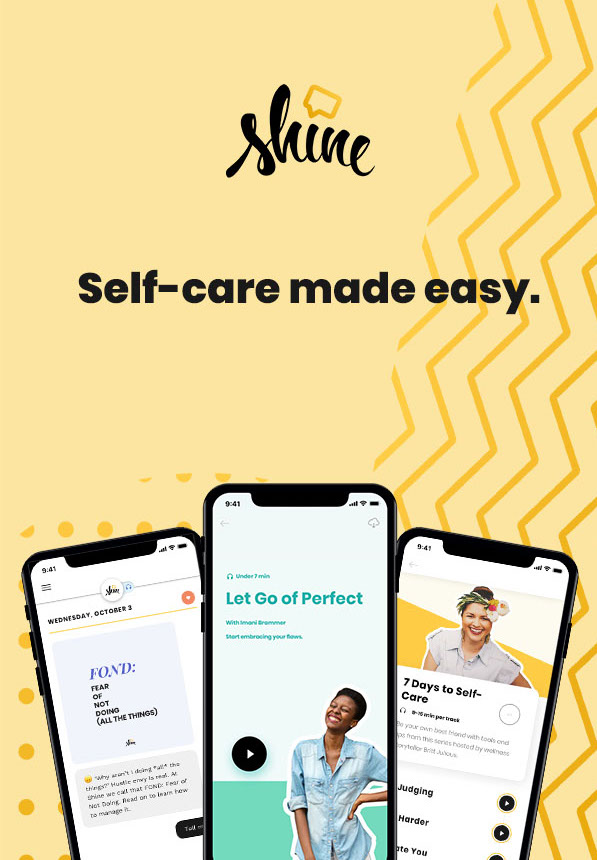
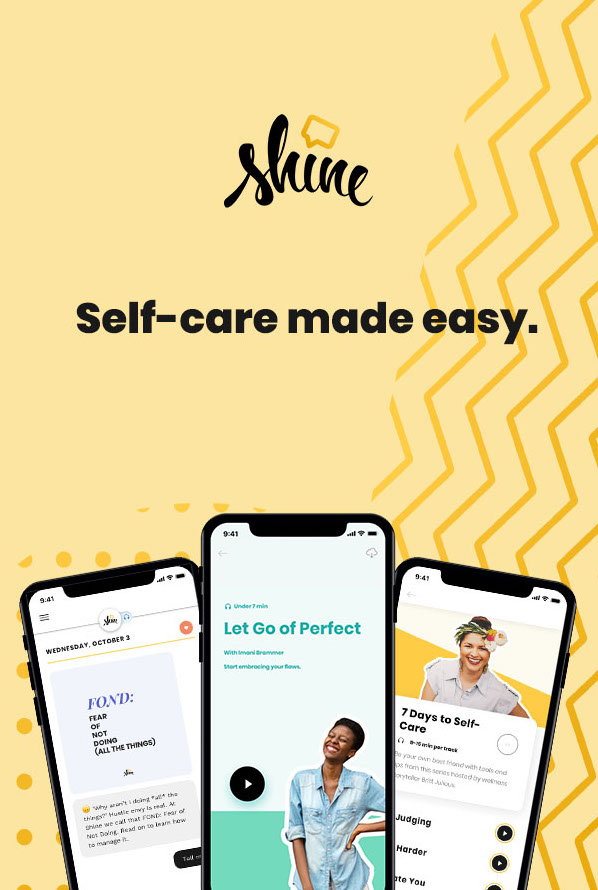
update copy on fb ad page & bg img

diff --git a/api/services/partnersData.js b/api/services/partnersData.js
@@ -244,20 +244,20 @@ const partnersData = {
     signUpButtonText: 'Get Started',
     campaignKey: 'OP836EE83472E6391BE0A81A0DEAF35F24',
   },
-  'get-app': {
+  'fb-text-to-download': {
     name: 'Meet your new self-care sidekick.',
     imageUrl: '/images/partners/shine-app.jpg',
     copy:
-      "<p style='font-size: 18px'>1) Wake up daily to Shine Texts: bite-sized, research-backed advice.</p> <p style='font-size: 18px'>2) Listen to Shine Talks on topics like self-love, anxiety, and burnout.</p> <p style='font-size: 18px'>3) Remind yourself what you're grateful for every day.</p> <hr> <p style='font-weight: 800;'>93% of people felt happier and more confident after making Shine part of their daily routine.</p> <p style='font-size: 18px'>Enter your info below to get a text to download our app:</p>",
+      "<div style='font-size: 18px'><p>1) Wake up daily to Shine Texts: bite-sized, research-backed advice.</p> <p>2) Listen to Shine Talks on topics like self-love, anxiety, and burnout.</p> <p>3) Remind yourself what you're grateful for every day.</p> <hr> <p style='font-weight: 800;'>93% of people felt happier and more confident after making Shine part of their daily routine.</p> <p>Enter your info below to get a text to download our app:</p></div>",
     confirmation: {
       imageUrl: '/images/confirmation-header-happy-dance.gif',
       copy: "You're all signed up!",
     },
-    campaignKey: 'OPDB9D9EC3F2E3A13D022DF83A30987B2B',
-    alphaEmailRequired: false,
+    campaignKey: 'OPC242EB5AF6EFE8477E4BEC73301BA67F',
+    alphaEmailRequired: true,
     customDisclaimer:
       'Signing up means you agree to our <a href="/terms-of-service">Terms of Service</a> & <a href="/privacy-policy">Privacy Policy</a> and to receive our daily messages and the daily Skimm email from our partner. Message & data rates may apply. Text STOP to opt-out, HELP for help.',
-    signUpButtonText: 'Enter',
+    signUpButtonText: 'Text me the link!',
   },
 };
 
